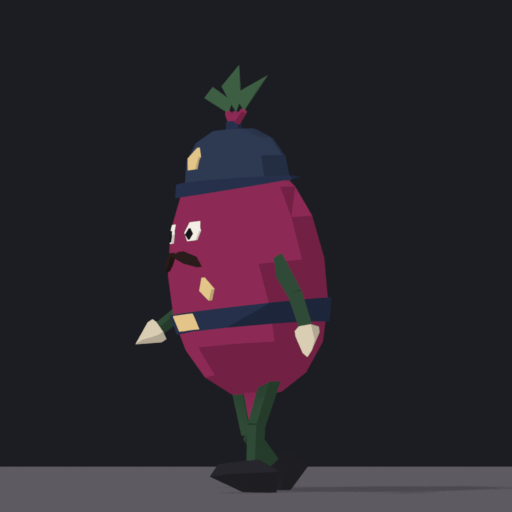
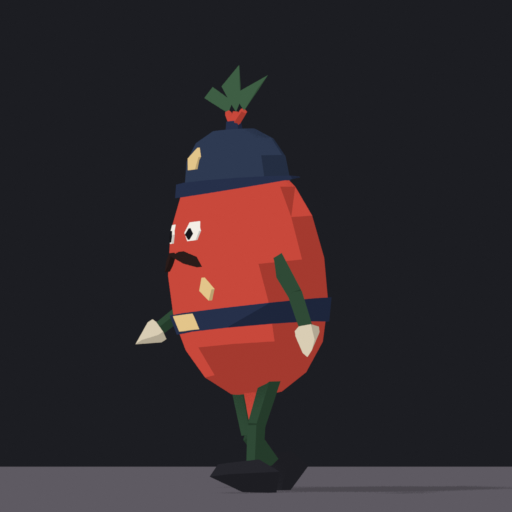
Colour the beetroot cop in the reference art's poster red
The bulb used a magenta of its own that is in neither STYLE.md's palette nor the
opening's reference art. Use the art's #C8483B instead, and regenerate the glb,
the previews and the in-game screenshot.

Changed region(s): [[0.3125, 0.3438, 0.6562, 0.8125], [0.4375, 0.2188, 0.5, 0.25]]

diff --git a/art/blender/cop.py b/art/blender/cop.py
@@ -23,12 +23,10 @@ from lib.export import arguments, empty_scene, export_glb
 from lib.palette import material
 from lib.rig import SIDES, Biped, anchors, armature, mirror
 
-# The opening's reference art for the helmet and its trim; STYLE.md's palette, and the other
-# characters' eyes, for the rest.
-# The beetroot is the one tone of its own: the art's poster red reads as a tomato, and the pun
-# needs a beetroot's deep magenta.
+# The opening's reference art for the bulb (its poster red), the helmet and its trim; STYLE.md's
+# palette, and the other characters' eyes, for the rest.
 COLOURS = {
-    "beetroot": "#8C2A55",
+    "beetroot": "#C8483B",
     "leaves": "#3E5E44",
     "stalks": "#2F4A36",
     "helmet": "#2E3A52",
